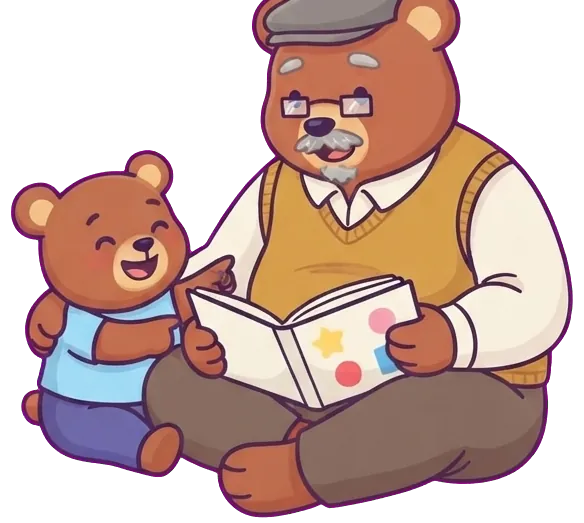
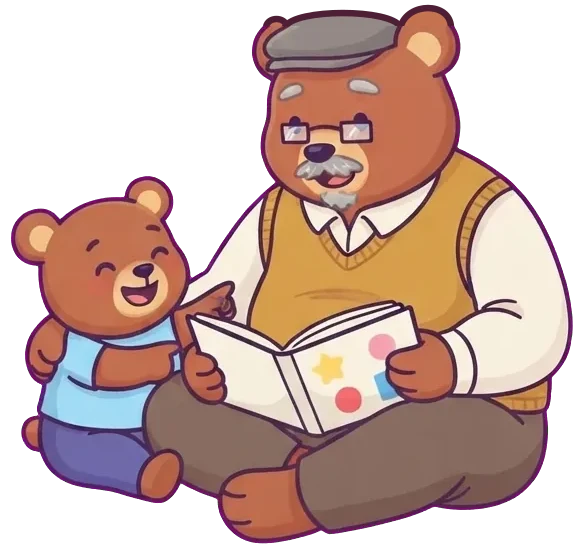
Fuchs & Bär: Opa Bär's cap and ear are whole again at the bottom of the menus, no longer cut flat at the picture's top
Gemini had drawn the cut-out sliced at its top edge; the missing tip is redrawn in the picture's own line and colours
on a taller canvas. BookFamily.test.ts now fails on a reader's picture touching its top or side edge, and the picture
skill says to check a cut-out's edges before keeping it.

diff --git a/src/components/BookFamily.test.ts b/src/components/BookFamily.test.ts
@@ -1,4 +1,5 @@
 import { expect, test } from "bun:test";
+import sharp from "sharp";
 import { READERS, readerOf } from "./BookFamily";
 
 // Oma and Opa read with the child too (D-21): every reader's picture is there, and from visit to visit the readers
@@ -14,4 +15,25 @@ test("the readers change from visit to visit, the two sides never alike", () => 
   expect(who(1)).toEqual(["oma-fuchs", "opa-baer"]);
   expect(who(2)).toEqual(["opa-fuchs", "oma-baer"]);
   expect(who(3)).toEqual(who(0));
+});
+
+// A cut-out whose figure reaches the picture's top or side edge was cut off there by Gemini: Opa Bär's cap ended in a
+// straight line at the top, and every menu showed his head sliced (user feedback, November 2026). Only the bottom may
+// touch the edge, where the families sit on the page's foot.
+test("no reader's picture is cut off at its top or sides", async () => {
+  const files = Object.values(READERS)
+    .flat()
+    .map((url) => /(buch-[\w-]+\.webp)/.exec(url ?? "")?.[1]);
+  for (const file of new Set(files)) {
+    const { data, info } = await sharp(new URL(`./bilder/${file}`, import.meta.url).pathname)
+      .ensureAlpha()
+      .raw()
+      .toBuffer({ resolveWithObject: true });
+    const opaque = (x: number, y: number) => data[(y * info.width + x) * 4 + 3] > 128;
+    let top = 0;
+    let sides = 0;
+    for (let x = 0; x < info.width; x++) if (opaque(x, 0)) top++;
+    for (let y = 0; y < info.height; y++) if (opaque(0, y) || opaque(info.width - 1, y)) sides++;
+    expect({ file, top, sides }).toEqual({ file, top: 0, sides: 0 });
+  }
 });

diff --git a/.claude/skills/bild-erzeugen/SKILL.md b/.claude/skills/bild-erzeugen/SKILL.md
@@ -178,6 +178,12 @@ comma-separated, one `--panel "<what differs>"` each, the prompt holds what is s
   lines between them is cut at those lines (November 2026). Look at the cut-outs on grey (#6a6a6a), not only the raw
   sheet. A border warning of 75–90 % on such a sheet is the backdrop's darker vignette, not a fault, as long as the
   piece looks clean.
+- **A cut-out's figure never touches the picture's edge** where it isn't meant to end: Gemini sometimes draws it cut
+  off by its frame, and the trim then leaves a straight line (Opa Bär's cap ended flat at the top, and every menu
+  showed his head sliced, user feedback, November 2026). Before keeping a cut-out, check that its top and side rows
+  are transparent (only a figure sitting on the page's foot may touch the bottom); if not, draw it again with „whole
+  figure, room on every side“, or for a small missing tip redraw it with its own line and colours on a taller canvas.
+  `BookFamily.test.ts` checks the menu's readers.
 - **What stays put across pictures comes from a picture where it already is.** Several pictures in which a
   character keeps sitting, lying or holding something (sitting on the potty while the parents do things) are
   drawn from the picture where it already does so, not from the place's first picture: from the empty room the
